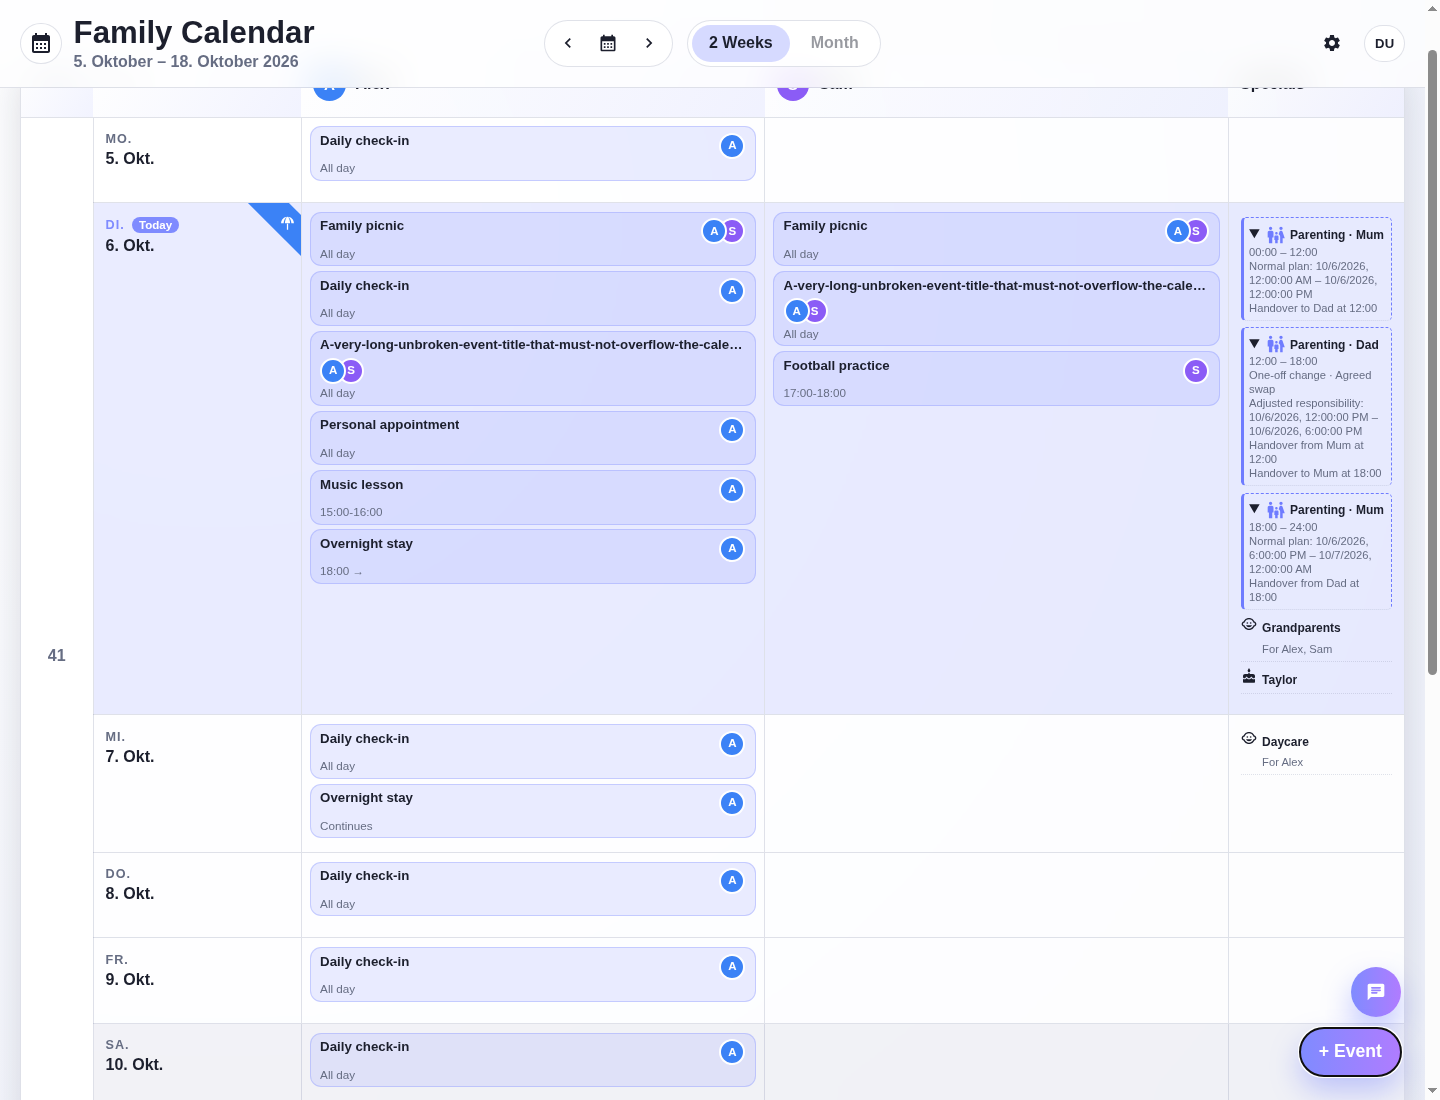
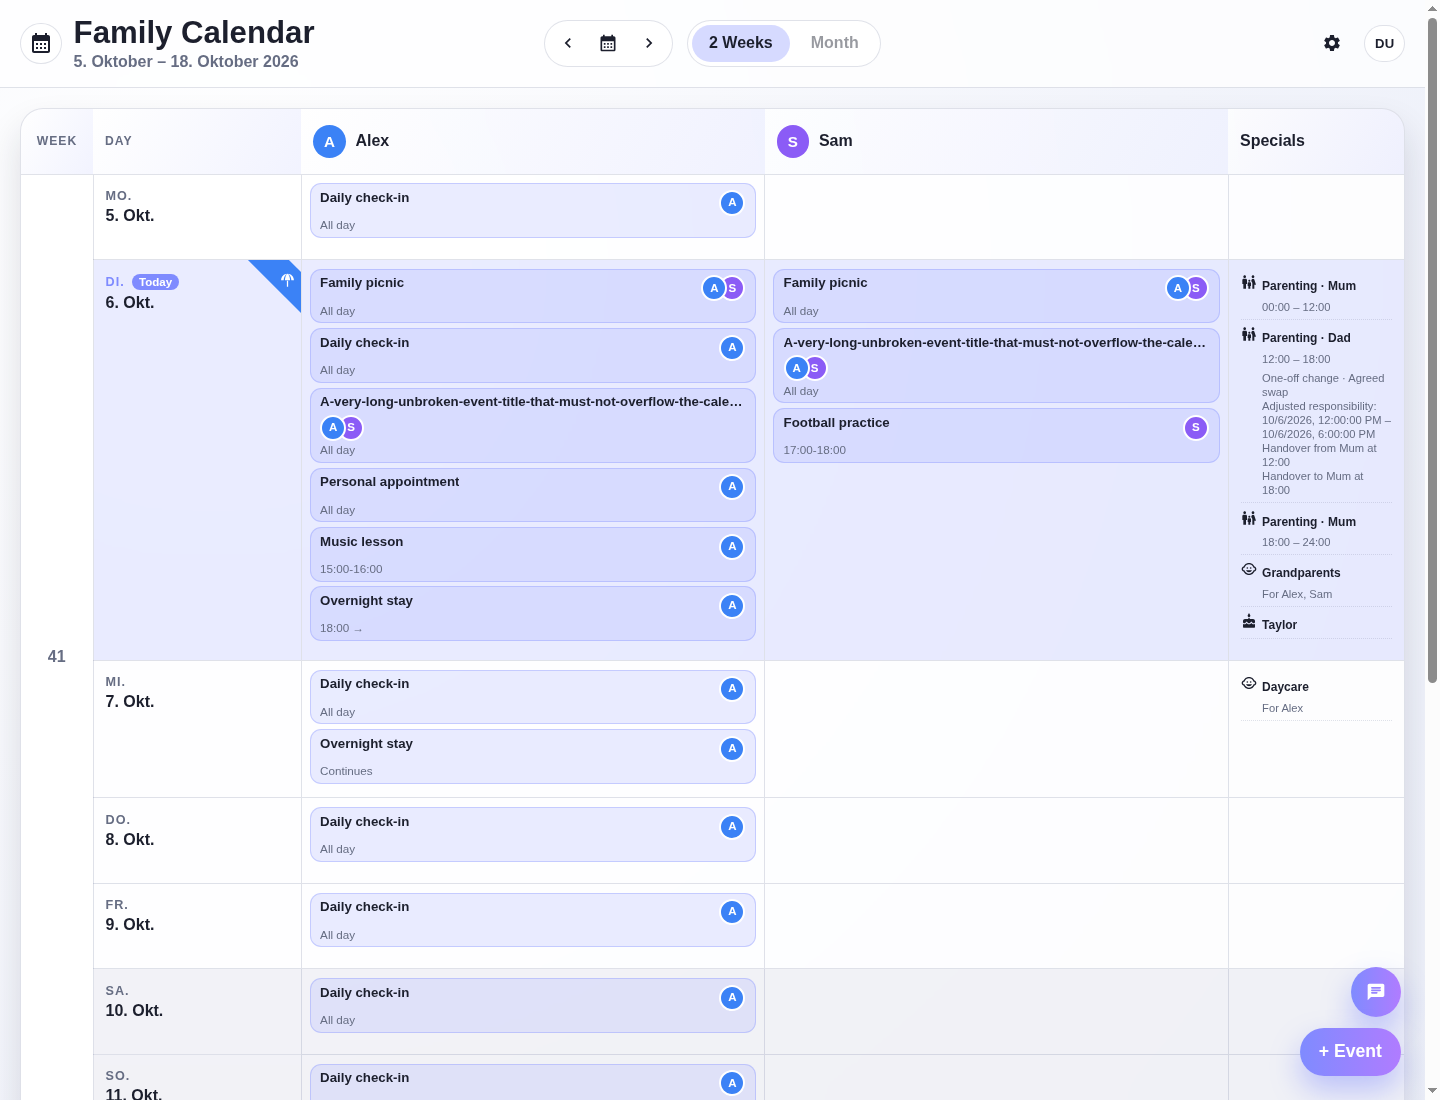
Match parenting Specials entries to compact childcare styling

diff --git a/frontend/src/pages/DashboardPage.stories.tsx b/frontend/src/pages/DashboardPage.stories.tsx
@@ -283,6 +283,16 @@ export const ParentingTime: Story = {
     await waitFor(() => expect(canvasElement.querySelectorAll(".today-row .calendar-parenting-entry")).toHaveLength(3));
     const changed = canvas.getByText("One-off change · Agreed swap");
     await expect(changed).toBeVisible();
+    const parentingEntry = changed.closest(".calendar-parenting-entry")!;
+    const childcareEntry = canvasElement.querySelector(".today-row .calendar-childcare-entry")!;
+    await expect(getComputedStyle(parentingEntry).borderLeftWidth).toBe("0px");
+    await expect(getComputedStyle(parentingEntry).borderTopWidth).toBe("0px");
+    await expect(getComputedStyle(parentingEntry).borderRadius).toBe("0px");
+    await expect(getComputedStyle(parentingEntry).borderBottomColor).toBe(getComputedStyle(childcareEntry).borderBottomColor);
+    await expect(getComputedStyle(parentingEntry.querySelector(".calendar-special-icon")!).color)
+      .toBe(getComputedStyle(childcareEntry.querySelector(".calendar-childcare-icon")!).color);
+    await expect(getComputedStyle(parentingEntry.querySelector("small")!).paddingLeft)
+      .toBe(getComputedStyle(childcareEntry.querySelector("small")!).paddingLeft);
     await userEvent.click(changed.closest("summary")!);
     await expect(canvas.getByText("Handover from Mum at 12:00")).toBeVisible();
     await expect(canvas.getByText("Handover to Mum at 18:00")).toBeVisible();

diff --git a/frontend/src/App.css b/frontend/src/App.css
@@ -924,30 +924,22 @@ body,
 
 .specials-cell .calendar-parenting-entry {
   display: block;
-  padding: 0.35rem;
-  border: 1px dashed var(--accent-strong);
-  border-left: 3px solid var(--accent-strong);
-  border-radius: 0.3rem;
   white-space: normal;
 }
 
 .calendar-parenting-entry summary {
+  display: flex;
+  flex-wrap: wrap;
+  align-items: baseline;
+  gap: 0.35rem;
   cursor: pointer;
-}
-
-.calendar-parenting-entry summary svg {
-  vertical-align: middle;
-  margin-right: 0.25rem;
-  color: var(--accent-strong);
 }
 
 .calendar-parenting-entry small {
   display: block;
-  color: var(--text-secondary);
-  font-size: 0.7rem;
-  overflow-wrap: anywhere;
 }
 
+.calendar-parenting-entry small,
 .calendar-childcare-entry small {
   flex-basis: 100%;
   padding-left: 1.35rem;

diff --git a/frontend/src/pages/DashboardPage.tsx b/frontend/src/pages/DashboardPage.tsx
@@ -96,7 +96,7 @@ function ParentingCalendarEntry({ interval, day, intervals }: {
   return (
     <details className="specials-entry calendar-parenting-entry">
       <summary>
-        <FamilyRestroomIcon fontSize="small" aria-hidden="true" />
+        <FamilyRestroomIcon className="calendar-special-icon" fontSize="small" aria-hidden="true" />
         <strong>Parenting · {interval.partyName ?? "Parenting party"}</strong>
         <small>{start <= day && end >= nextDay ? "All day" : `${start <= day ? "00:00" : time(start)} – ${end >= nextDay ? "24:00" : time(end)}`}</small>
         {change && <small>One-off change{interval.source.type === "change" && interval.source.label ? ` · ${interval.source.label}` : ""}</small>}

diff --git a/CHANGELOG.md b/CHANGELOG.md
@@ -2,6 +2,8 @@
 
 ## Unreleased
 
+- Removed parenting-time card borders in Specials and matched childcare's compact icon, text, and separator styling while retaining expandable handover details. Updated screenshot: `/home/runner/work/family-butler-v2/family-butler-v2/docs/screenshots/household-calendar-parenting-time.png`.
+
 - Displayed persisted parenting responsibility in the household calendar, with distinct expandable entries, handovers, and one-off adjustment labels. Added authorized, read-only API/agent responsibility checks and optional non-blocking personal-event warnings with explicit development-only party selection. Updated UI screenshot: `/home/runner/work/family-butler-v2/family-butler-v2/docs/screenshots/household-calendar-parenting-time.png`.
 
 - Replaced the fixed Parenting Time period editor with a flexible recurring-handover list using shared Settings form styling. Aligned Settings actions with existing icon buttons, displayed party transitions as a single “From → To” value with distinct-party selection, right-aligned action headers, moved schedule preview to its own section at the bottom, and added a Monday-first combined date/time picker with a 24-hour clock for dated changes. Updated UI screenshot: `/home/runner/work/family-butler-v2/family-butler-v2/docs/screenshots/parenting-time-handovers.png`.
